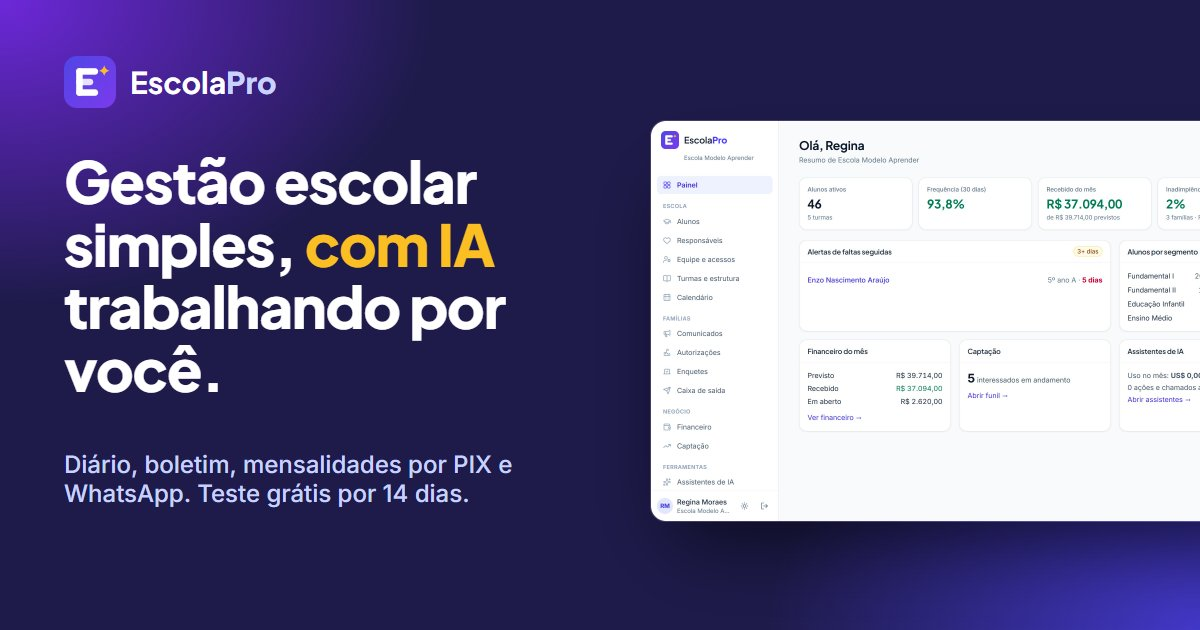
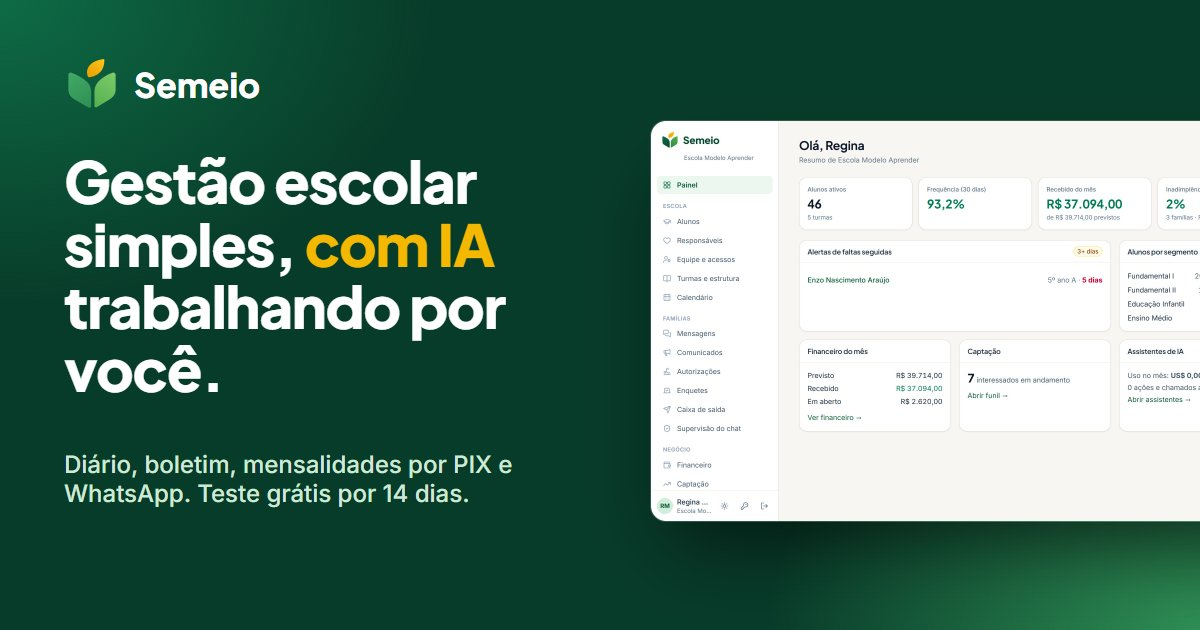
Marca Semeio, MFA, recuperação de senha e últimas correções
- Nome e marca Semeio no app, na landing, nos e-mails e na política de
  privacidade (com o CNPJ); símbolo em vetor, favicon, ícones de app e
  manifesto; paleta e neutros do estudo da logo; capturas e imagem de
  compartilhamento da landing refeitas.
- "Esqueci minha senha" por e-mail ou WhatsApp (link de 1 h, uso único,
  encerra as sessões).
- Verificação em duas etapas com app autenticador e códigos de
  recuperação.
- Cadastro com desafio assinado e campo escondido contra robôs (sem
  verificação de e-mail).
- Limpeza diária de arquivos órfãos e pedidos de senha vencidos.
- Content-Security-Policy nas páginas do app.

diff --git a/index.html b/index.html
@@ -3,21 +3,22 @@
   <head>
     <meta charset="utf-8" />
     <meta name="viewport" content="width=device-width, initial-scale=1" />
-    <title>EscolaPro | Gestão escolar com IA para escolas pequenas</title>
+    <title>Semeio | Gestão escolar com IA para escolas pequenas</title>
     <meta
       name="description"
       content="Matrícula, diário, boletim, mensalidades por PIX e comunicação com as famílias num só lugar, com assistentes de IA. Para escolas de educação infantil, fundamental e médio."
     />
-    <meta name="theme-color" content="#4f46e5" />
+    <meta name="theme-color" content="#0e6b45" />
     <meta property="og:type" content="website" />
     <meta property="og:locale" content="pt_BR" />
-    <meta property="og:title" content="EscolaPro: gestão escolar com IA para escolas pequenas" />
+    <meta property="og:title" content="Semeio: gestão escolar com IA para escolas pequenas" />
     <meta property="og:description" content="Diário, boletim, mensalidades por PIX, WhatsApp e assistentes de IA. Teste grátis por 14 dias." />
     <meta property="og:url" content="https://sf-solucoestecnologicas.github.io/escolapro/" />
     <meta property="og:image" content="https://sf-solucoestecnologicas.github.io/escolapro/img/og.jpg" />
     <link rel="canonical" href="https://sf-solucoestecnologicas.github.io/escolapro/" />
     <meta name="twitter:card" content="summary_large_image" />
     <link rel="icon" href="favicon.svg" type="image/svg+xml" />
+    <link rel="apple-touch-icon" href="img/icone-180.png" />
     <link rel="preconnect" href="https://fonts.googleapis.com" />
     <link rel="preconnect" href="https://fonts.gstatic.com" crossorigin />
     <link href="https://fonts.googleapis.com/css2?family=Inter:wght@400;500;600&family=Plus+Jakarta+Sans:wght@600;700;800&display=swap" rel="stylesheet" />
@@ -50,15 +51,9 @@
         <symbol id="i-menu" viewBox="0 0 24 24"><path d="M4 6h16M4 12h16M4 18h16" /></symbol>
         <symbol id="i-arrow" viewBox="0 0 24 24"><path d="M5 12h14M12 5l7 7-7 7" /></symbol>
         <symbol id="i-logo" viewBox="0 0 64 64">
-          <defs>
-            <linearGradient id="g-logo" x1="0" y1="0" x2="64" y2="64" gradientUnits="userSpaceOnUse"><stop stop-color="#4F46E5" /><stop offset="1" stop-color="#7C3AED" /></linearGradient>
-          </defs>
-          <rect width="64" height="64" rx="16" fill="url(#g-logo)" />
-          <rect x="15" y="15" width="8" height="34" rx="4" fill="#fff" />
-          <rect x="15" y="15" width="27" height="8" rx="4" fill="#fff" />
-          <rect x="15" y="28" width="21" height="8" rx="4" fill="#fff" fill-opacity=".85" />
-          <rect x="15" y="41" width="27" height="8" rx="4" fill="#fff" />
-          <path d="M49.5 11.5c.9 4 2.6 5.7 6.5 6.5-3.9.9-5.6 2.6-6.5 6.5-.9-3.9-2.6-5.6-6.5-6.5 3.9-.8 5.6-2.5 6.5-6.5Z" fill="#FBBF24" />
+          <path d="M5 21.5c0-1.9 1.9-3.1 3.7-2.4 7.3 2.9 14.3 6.6 18.6 11.5 2.6 3 3.7 6.6 3.7 10.5v16.4c0 1.3-1.4 2.1-2.5 1.5L12 49.6C7.7 47.3 5 43.4 5 38.7Z" fill="#0E6B45" />
+          <path d="M59 21.5c0-1.9-1.9-3.1-3.7-2.4-6.6 2.6-12.7 6-16.5 10.5-2.7 3.1-4 6.8-4 10.8v16.6c0 1.3 1.4 2.1 2.5 1.5L52 49.6c4.3-2.3 7-6.2 7-10.9Z" fill="#4BA84A" />
+          <path d="M46 3.5c-10.2.9-17.6 5.4-19.4 12.6-.8 3.3-.1 6.2 1.3 8.1 7.4-.4 14.3-4.3 16.9-11.4 1.1-3 1.5-6 1.2-9.3Z" fill="#F5B800" />
         </symbol>
       </defs>
     </svg>
@@ -66,9 +61,9 @@
     <div class="progresso" aria-hidden="true"></div>
     <header class="topo">
       <div class="conteiner topo__linha">
-        <a href="#" class="marca" aria-label="EscolaPro, início">
+        <a href="#" class="marca" aria-label="Semeio, início">
           <svg class="marca__simbolo"><use href="#i-logo" /></svg>
-          <span>Escola<b>Pro</b></span>
+          <span>Semeio</span>
         </a>
         <nav class="topo__menu" id="menu" aria-label="Seções">
           <a href="#recursos">Recursos</a>
@@ -106,7 +101,7 @@
               <li><svg class="ic"><use href="#i-check" /></svg> Funciona no celular</li>
             </ul>
           </div>
-          <div class="vitrine entrada" style="--i: 2" aria-label="Telas do EscolaPro">
+          <div class="vitrine entrada" style="--i: 2" aria-label="Telas do Semeio">
             <div class="vitrine__luz" aria-hidden="true"></div>
             <figure class="navegador">
               <div class="navegador__barra"><span></span><span></span><span></span></div>
@@ -133,7 +128,7 @@
       </section>
 
       <!-- Faixa rolante de recursos -->
-      <div class="marquise" aria-label="Recursos do EscolaPro">
+      <div class="marquise" aria-label="Recursos do Semeio">
         <div class="marquise__trilho">
           <ul>
             <li>Chamada em segundos</li>
@@ -351,7 +346,7 @@
           </div>
           <div class="dupla__imagem">
             <figure class="celular">
-              <img src="img/chat.jpg" width="390" height="844" alt="Conversa entre a professora e a família no chat do EscolaPro" loading="lazy" />
+              <img src="img/chat.jpg" width="390" height="844" alt="Conversa entre a professora e a família no chat do Semeio" loading="lazy" />
             </figure>
           </div>
         </div>
@@ -431,7 +426,7 @@
           <div class="faq">
             <details>
               <summary>Preciso instalar alguma coisa?</summary>
-              <p>Não. O EscolaPro funciona no navegador do computador e do celular. Famílias e professores entram com e-mail ou celular, sem baixar aplicativo.</p>
+              <p>Não. O Semeio funciona no navegador do computador e do celular. Famílias e professores entram com e-mail ou celular, sem baixar aplicativo.</p>
             </details>
             <details>
               <summary>Consigo trazer os alunos que já tenho em planilha?</summary>
@@ -443,7 +438,7 @@
             </details>
             <details>
               <summary>Como a escola recebe as mensalidades?</summary>
-              <p>Se quiser, no cadastro abrimos uma conta Asaas no nome da escola. As famílias pagam por PIX, boleto ou cartão e o dinheiro cai direto nessa conta, com baixa automática no EscolaPro. Quem preferir pode continuar recebendo como hoje e registrar os pagamentos manualmente.</p>
+              <p>Se quiser, no cadastro abrimos uma conta Asaas no nome da escola. As famílias pagam por PIX, boleto ou cartão e o dinheiro cai direto nessa conta, com baixa automática no Semeio. Quem preferir pode continuar recebendo como hoje e registrar os pagamentos manualmente.</p>
             </details>
             <details>
               <summary>Professores e famílias podem conversar pelo app?</summary>
@@ -455,11 +450,11 @@
             </details>
             <details>
               <summary>Serve para educação infantil?</summary>
-              <p>Sim. Além das séries com nota, o EscolaPro tem rotina diária, pareceres descritivos e autorizações digitais, pensados para a educação infantil.</p>
+              <p>Sim. Além das séries com nota, o Semeio tem rotina diária, pareceres descritivos e autorizações digitais, pensados para a educação infantil.</p>
             </details>
             <details>
               <summary>E a LGPD?</summary>
-              <p>A escola é a controladora dos dados e o EscolaPro trata apenas o necessário para o serviço. Os acessos são por perfil, as ações ficam registradas e os dados de cada escola são isolados no banco.</p>
+              <p>A escola é a controladora dos dados e o Semeio trata apenas o necessário para o serviço. Os acessos são por perfil, as ações ficam registradas e os dados de cada escola são isolados no banco.</p>
             </details>
           </div>
         </div>
@@ -469,7 +464,7 @@
       <section id="contato" class="final">
         <div class="conteiner final__caixa">
           <h2>Pronto para organizar a sua escola?</h2>
-          <p>Comece hoje e veja a sua escola funcionando no EscolaPro ainda nesta semana.</p>
+          <p>Comece hoje e veja a sua escola funcionando no Semeio ainda nesta semana.</p>
           <div class="final__acoes">
             <a class="botao botao--claro" data-cta data-cta-final href="#contato">Testar grátis por 14 dias <svg class="ic"><use href="#i-arrow" /></svg></a>
           </div>
@@ -480,11 +475,11 @@
 
     <footer class="rodape">
       <div class="conteiner rodape__linha">
-        <a href="#" class="marca marca--pequena" aria-label="EscolaPro, voltar ao início">
+        <a href="#" class="marca marca--pequena" aria-label="Semeio, voltar ao início">
           <svg class="marca__simbolo"><use href="#i-logo" /></svg>
-          <span>Escola<b>Pro</b></span>
+          <span>Semeio</span>
         </a>
-        <p>© <span id="ano">2026</span> EscolaPro · um produto <a href="https://github.com/sf-solucoestecnologicas">SF Soluções Tecnológicas</a></p>
+        <p>© <span id="ano">2026</span> Semeio · um produto <a href="https://github.com/sf-solucoestecnologicas">SF Soluções Tecnológicas</a></p>
       </div>
     </footer>
 

diff --git a/estilo.css b/estilo.css
@@ -1,25 +1,25 @@
-/* EscolaPro: landing page. Mesmas cores e fontes do app (ver docs/identidade-visual.md). */
+/* Semeio: landing page. Mesmas cores e fontes do app (ver docs/identidade-visual.md). */
 
 :root {
-  --marca: #4f46e5;
-  --marca-forte: #4338ca;
-  --violeta: #7c3aed;
-  --faisca: #fbbf24;
+  --marca: #0e6b45;
+  --marca-forte: #0a4a33;
+  --violeta: #4ba84a;
+  --faisca: #f5b800;
   --fundo: #ffffff;
-  --fundo-suave: #f8fafc;
+  --fundo-suave: #f7f5ef;
   --superficie: #ffffff;
   --borda: #e2e8f0;
   --texto: #0f172a;
   --texto-2: #475569;
   --texto-3: #64748b;
-  --marca-suave: #eef2ff;
-  --marca-texto: #4338ca;
+  --marca-suave: #ecf7f0;
+  --marca-texto: #0a4a33;
   --verde: #059669;
   --verde-suave: #ecfdf5;
   --rosa: #e11d48;
   --rosa-suave: #fff1f2;
   --sombra: 0 1px 2px rgb(15 23 42 / 0.04), 0 8px 24px -12px rgb(15 23 42 / 0.12);
-  --sombra-forte: 0 30px 60px -20px rgb(30 27 75 / 0.35);
+  --sombra-forte: 0 30px 60px -20px rgb(8 60 42 / 0.35);
   --raio: 16px;
   --fonte-titulo: "Plus Jakarta Sans", system-ui, sans-serif;
   --fonte: "Inter", system-ui, -apple-system, "Segoe UI", sans-serif;
@@ -35,8 +35,8 @@
     --texto: #f1f5f9;
     --texto-2: #cbd5e1;
     --texto-3: #94a3b8;
-    --marca-suave: #1e1b4b;
-    --marca-texto: #a5b4fc;
+    --marca-suave: #0a2e20;
+    --marca-texto: #a9dabb;
     --verde: #34d399;
     --verde-suave: #052e1f;
     --rosa: #fb7185;
@@ -54,8 +54,8 @@
   --texto: #f1f5f9;
   --texto-2: #cbd5e1;
   --texto-3: #94a3b8;
-  --marca-suave: #1e1b4b;
-  --marca-texto: #a5b4fc;
+  --marca-suave: #0a2e20;
+  --marca-texto: #a9dabb;
   --verde: #34d399;
   --verde-suave: #052e1f;
   --rosa: #fb7185;
@@ -158,7 +158,7 @@ p {
 .botao--primario {
   background: var(--marca);
   color: #fff;
-  box-shadow: 0 8px 20px -8px rgb(79 70 229 / 0.6);
+  box-shadow: 0 8px 20px -8px rgb(14 107 69 / 0.6);
 }
 .botao--primario:hover {
   background: var(--marca-forte);
@@ -206,10 +206,10 @@ p {
   gap: 10px;
   text-decoration: none;
   font-family: var(--fonte-titulo);
-  font-size: 20px;
-  font-weight: 600;
-  letter-spacing: -0.02em;
-  color: var(--texto);
+  font-size: 22px;
+  font-weight: 800;
+  letter-spacing: -0.03em;
+  color: var(--marca-texto);
 }
 .marca b {
   font-weight: 800;
@@ -295,8 +295,8 @@ p {
   inset: -200px -20% auto;
   height: 700px;
   background:
-    radial-gradient(40% 50% at 20% 30%, rgb(124 58 237 / 0.18), transparent 70%),
-    radial-gradient(35% 45% at 80% 20%, rgb(79 70 229 / 0.2), transparent 70%),
+    radial-gradient(40% 50% at 20% 30%, rgb(75 168 74 / 0.18), transparent 70%),
+    radial-gradient(35% 45% at 80% 20%, rgb(14 107 69 / 0.2), transparent 70%),
     radial-gradient(30% 40% at 60% 70%, rgb(251 191 36 / 0.12), transparent 70%);
   pointer-events: none;
 }
@@ -592,8 +592,8 @@ p {
   position: absolute;
   inset: 0;
   background:
-    radial-gradient(45% 60% at 15% 0%, rgb(124 58 237 / 0.35), transparent 70%),
-    radial-gradient(40% 50% at 90% 100%, rgb(79 70 229 / 0.35), transparent 70%);
+    radial-gradient(45% 60% at 15% 0%, rgb(75 168 74 / 0.35), transparent 70%),
+    radial-gradient(40% 50% at 90% 100%, rgb(14 107 69 / 0.35), transparent 70%);
   pointer-events: none;
 }
 .secao--escura .conteiner {
@@ -637,7 +637,7 @@ p {
 }
 .agente .ic {
   font-size: 24px;
-  color: #a5b4fc;
+  color: #a9dabb;
 }
 .agente h3 {
   margin-top: 14px;
@@ -787,7 +787,7 @@ p {
 }
 .plano--destaque {
   border: 2px solid var(--marca);
-  box-shadow: 0 20px 50px -20px rgb(79 70 229 / 0.45);
+  box-shadow: 0 20px 50px -20px rgb(14 107 69 / 0.45);
 }
 .plano__fita {
   position: absolute;
@@ -940,7 +940,7 @@ p {
   border-radius: 28px;
   text-align: center;
   color: #fff;
-  background: linear-gradient(120deg, #4338ca, #6d28d9 55%, #7c3aed);
+  background: linear-gradient(120deg, #0a4a33, #0b5a3b 55%, #4ba84a);
   box-shadow: var(--sombra-forte);
 }
 .final__caixa::after {

diff --git a/movimento.css b/movimento.css
@@ -1,4 +1,4 @@
-/* EscolaPro: movimento e efeitos da landing page.
+/* Semeio: movimento e efeitos da landing page.
    Só transform e opacity (leve no celular). Com "reduzir movimento" ligado, tudo fica parado. */
 
 @property --angulo {
@@ -15,7 +15,7 @@
   height: 3px;
   transform-origin: 0 50%;
   transform: scaleX(var(--progresso, 0));
-  background: linear-gradient(90deg, #4f46e5, #a855f7, #fbbf24);
+  background: linear-gradient(90deg, #0e6b45, #6cc05c, #f5b800);
 }
 
 /* Cabeçalho ganha sombra depois de rolar */
@@ -52,13 +52,13 @@
 .aurora span:nth-child(1) {
   top: -18%;
   left: -8%;
-  background: #7c3aed;
+  background: #4ba84a;
   animation: aurora-a 18s ease-in-out infinite alternate;
 }
 .aurora span:nth-child(2) {
   top: -10%;
   right: -6%;
-  background: #4f46e5;
+  background: #0e6b45;
   animation: aurora-b 22s ease-in-out infinite alternate;
 }
 .aurora span:nth-child(3) {
@@ -71,7 +71,7 @@
 .aurora span:nth-child(4) {
   bottom: -20%;
   right: 10%;
-  background: #ec4899;
+  background: #2f8f55;
   opacity: 0.22;
   animation: aurora-a 30s ease-in-out infinite alternate-reverse;
 }
@@ -199,7 +199,7 @@
   position: absolute;
   inset: 8% 6% 14%;
   border-radius: 40px;
-  background: conic-gradient(from var(--angulo), #4f46e5, #a855f7, #fbbf24, #ec4899, #4f46e5);
+  background: conic-gradient(from var(--angulo), #0e6b45, #6cc05c, #f5b800, #2f8f55, #0e6b45);
   filter: blur(46px);
   opacity: 0.45;
   animation: girar 10s linear infinite;
@@ -299,7 +299,7 @@
   position: absolute;
   inset: 0;
   border-radius: inherit;
-  background: radial-gradient(360px circle at var(--mx, 50%) var(--my, 50%), rgb(124 58 237 / 0.14), transparent 45%);
+  background: radial-gradient(360px circle at var(--mx, 50%) var(--my, 50%), rgb(75 168 74 / 0.14), transparent 45%);
   opacity: 0;
   transition: opacity 0.3s;
   pointer-events: none;
@@ -325,7 +325,7 @@
   .area:hover,
   .plano:hover {
     transform: translateY(-6px);
-    box-shadow: 0 24px 50px -24px rgb(79 70 229 / 0.35);
+    box-shadow: 0 24px 50px -24px rgb(14 107 69 / 0.35);
   }
 }
 .area__icone {
@@ -340,7 +340,7 @@
   border: 2px solid transparent;
   background:
     linear-gradient(var(--superficie), var(--superficie)) padding-box,
-    conic-gradient(from var(--angulo), #4f46e5, #a855f7, #fbbf24, #ec4899, #4f46e5) border-box;
+    conic-gradient(from var(--angulo), #0e6b45, #6cc05c, #f5b800, #2f8f55, #0e6b45) border-box;
   animation: girar 5s linear infinite;
 }
 .plano__valor {
@@ -368,7 +368,7 @@
   top: var(--y);
   width: 14px;
   height: 14px;
-  background: #fbbf24;
+  background: #f5b800;
   clip-path: polygon(50% 0, 62% 38%, 100% 50%, 62% 62%, 50% 100%, 38% 62%, 0 50%, 38% 38%);
   opacity: 0;
   animation: piscar 4s ease-in-out infinite var(--d);
@@ -392,7 +392,7 @@
 /* Chamada final com gradiente em movimento */
 .final__caixa {
   background-size: 200% 200%;
-  background-image: linear-gradient(120deg, #4338ca, #6d28d9, #7c3aed, #4338ca);
+  background-image: linear-gradient(120deg, #0a4a33, #0b5a3b, #4ba84a, #0a4a33);
   animation: mover-gradiente 14s ease infinite;
 }
 @keyframes mover-gradiente {

diff --git a/site.js b/site.js
@@ -7,7 +7,7 @@
   if (config.app) {
     destino = config.app.replace(/\/$/, "") + "/cadastro";
   } else if (config.whatsapp) {
-    destino = "https://wa.me/" + config.whatsapp.replace(/\D/g, "") + "?text=" + encodeURIComponent("Olá! Quero conhecer o EscolaPro para a minha escola.");
+    destino = "https://wa.me/" + config.whatsapp.replace(/\D/g, "") + "?text=" + encodeURIComponent("Olá! Quero conhecer o Semeio para a minha escola.");
   }
   if (destino) {
     document.querySelectorAll("[data-cta]").forEach(function (a) {
